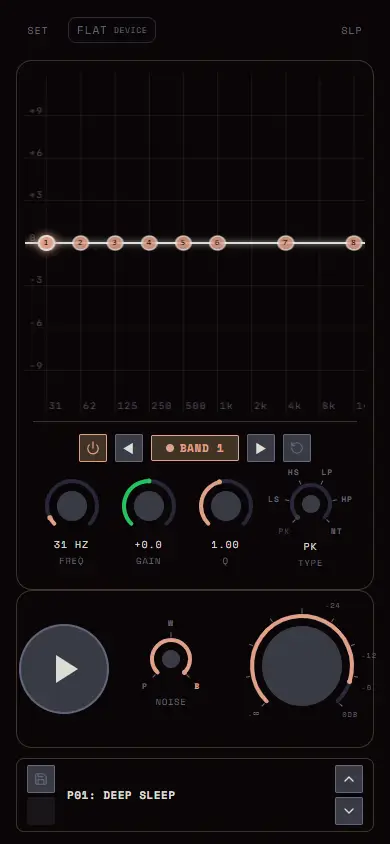
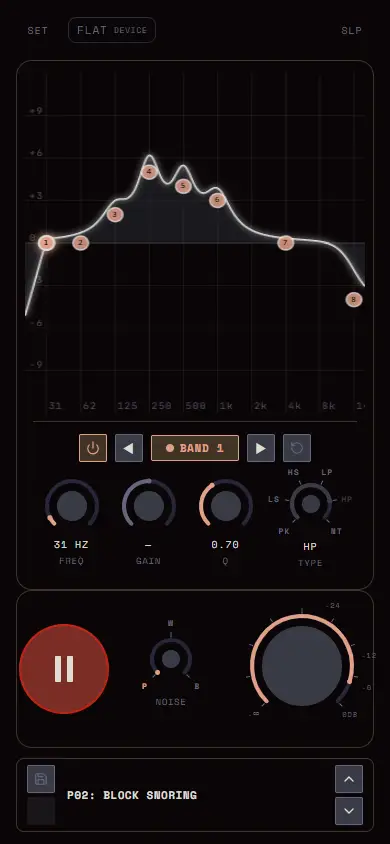
fix: v1 original screenshots show a preset playing with live EQ curve
Captured P02: Block Snoring loaded and playing on ambz.vercel.app so the
8-band EQ response curve is drawn on-screen (the prior stills showed the idle
detail panel). Update captions to name the active preset.

diff --git a/docs/postmortem-v1-to-v2/index.html b/docs/postmortem-v1-to-v2/index.html
@@ -236,10 +236,10 @@ footer .src{font-family:var(--mono);font-size:12px}
   <p>ambient-noise began in Feb 2026 as a PM-doc-first project (<code>requirements and docs</code>, <code>product mgtm docs completed enough for mvp</code>, <code>phase 0 + 1 generated</code>). It grew a genuine Web Audio engine &mdash; white/pink/brown noise, a configurable EQ, cut filters &mdash; first toward a mobile (Expo/React Native) app, then toward the web. The engine was real; the interface was a moving target.</p>
 
   <figure class="shot-grid reveal">
-    <figure class="shot"><div class="imgframe"><img src="screens/v1-original-desktop.webp" alt="The original ambient-noise v1, desktop"></div><div class="cap"><b>the original, desktop</b>live at ambz.vercel.app &mdash; the pre-redesign player</div></figure>
-    <figure class="shot"><div class="imgframe"><img src="screens/v1-original-mobile.webp" alt="The original ambient-noise v1, mobile"></div><div class="cap"><b>the original, mobile</b>the tape-deck player &mdash; band-EQ detail panel, P/W/B noise, meter</div></figure>
+    <figure class="shot"><div class="imgframe"><img src="screens/v1-original-desktop.webp" alt="The original ambient-noise v1, desktop"></div><div class="cap"><b>the original, desktop</b>live at ambz.vercel.app &mdash; preset playing, EQ curve shown</div></figure>
+    <figure class="shot"><div class="imgframe"><img src="screens/v1-original-mobile.webp" alt="The original ambient-noise v1, mobile"></div><div class="cap"><b>the original, mobile</b>the tape-deck player &mdash; <em>P02: Block Snoring</em> playing, response curve drawn live</div></figure>
   </figure>
-  <p>This is the player that shipped before the redesign &mdash; captured live from <strong>ambz.vercel.app</strong>, reached past the consent + &ldquo;what brings you here&rdquo; onboarding to the actual instrument. It is a full-featured tape-deck product (the richer, mobile-rooted v1): a <strong>hardware-panel</strong> surface (SET / FLAT / DEVICE / SLP) in <strong>Inter</strong>, an EQ edited band-by-band through a focused detail panel (BAND 1 &middot; 31&nbsp;Hz &middot; gain &amp; Q &middot; PK/LS/HS/LP/HP/NT types), P/W/B noise selectors, a segmented meter, and preset chips (P01: Deep Sleep). It is dense and capable but visually busy &mdash; a control panel that reads as instrument internals rather than a settled identity. The redesign would not merely polish it &mdash; it would replace its design language with the far more coherent UNIT-02, while keeping the stronger interaction ideas (presets, filter cuts, an EQ you read at a glance).</p>
+  <p>This is the player that shipped before the redesign &mdash; captured live from <strong>ambz.vercel.app</strong>, reached past the consent + &ldquo;what brings you here&rdquo; onboarding to the actual instrument &mdash; here captured with a preset (<em>P02: Block Snoring</em>) loaded and playing so the EQ response curve is drawn live. It is a full-featured tape-deck product (the richer, mobile-rooted v1): a <strong>hardware-panel</strong> surface (SET / FLAT / DEVICE / SLP) in <strong>Inter</strong>, an EQ edited band-by-band through a focused detail panel (BAND 1 &middot; 31&nbsp;Hz &middot; gain &amp; Q &middot; PK/LS/HS/LP/HP/NT types), P/W/B noise selectors, a segmented meter, and preset chips (P01: Deep Sleep). It is dense and capable but visually busy &mdash; a control panel that reads as instrument internals rather than a settled identity. The redesign would not merely polish it &mdash; it would replace its design language with the far more coherent UNIT-02, while keeping the stronger interaction ideas (presets, filter cuts, an EQ you read at a glance).</p>
   <p>Look at the commit subjects between the first player and the redesign and the pattern is unmistakable &mdash; a <em>tape deck</em> whose look was nudged, not decided:</p>
   <div class="callout reveal">
     <span class="tag">the drift, verbatim</span>
